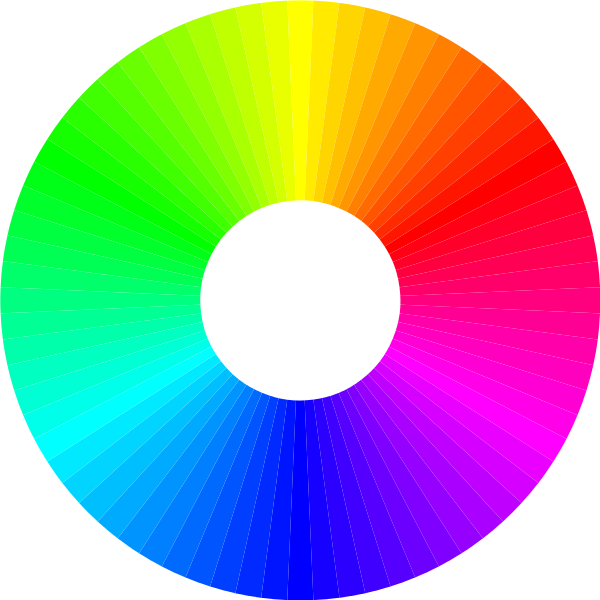
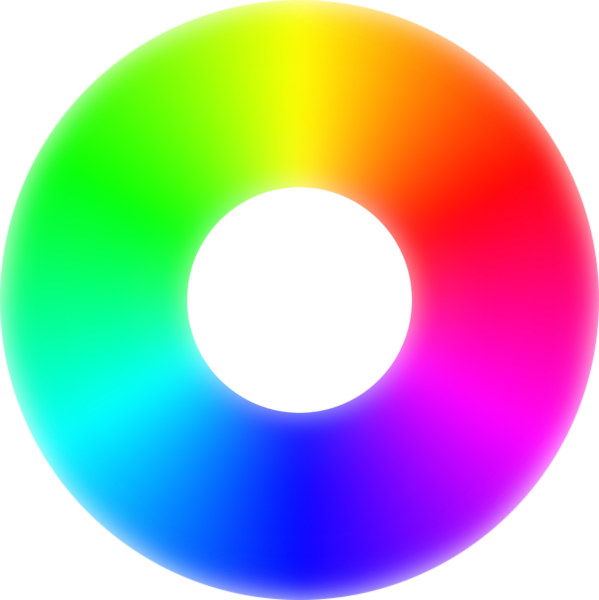
Now includes a slider bar and improved colour wheel

Changed region(s): [[0.0, 0.0, 1.0, 1.0], [0.2404, 0.27, 0.7513, 0.78]]

diff --git a/src/LightRemote.html b/src/LightRemote.html
@@ -7,16 +7,23 @@
         <link rel="stylesheet" type="text/css" href="/css/LightRemote.css">
         <link rel="stylesheet" type="text/css" href="/css/ToggleControl.css">
         <link rel="stylesheet" type="text/css" href="/css/ColorPicker.css">
+        <link rel="stylesheet" type="text/css" href="/css/ColorSlider.css">
         <script src="/js/LightRemote.js"></script>
         <script src="/js/ToggleControl.js"></script>
         <script src="/js/ColorControl.js"></script>
         <script src="/js/ColorPickerCanvas.js"></script>
+        <script src="/js/ColorSlider.js"></script>
     </head>
 
     <body>
         <div class="wrapper">
-            <div class="color-container container">
-                <canvas id="color-picker-canvas" class="" height="600px" width="600"></canvas>
+            <div class="container">
+                <div class="color-container">
+                    <canvas id="color-picker-canvas" class="" height="600px" width="600"></canvas>
+                </div>
+                <div class="brightness-container">
+                    <input type="range" min="0" max="255" value="200" class="slider" id="brightness-slider">
+                </div>
             </div>
         </div>
     </body>

diff --git a/src/public/css/ColorSlider.css b/src/public/css/ColorSlider.css
@@ -1,0 +1,24 @@
+:root {
+    --color: rgb(255, 255, 255);
+}
+
+.slider {
+    -webkit-appearance: none;
+    appearance: none;
+    height: 16px;
+    width: 75%;
+    margin: 32px 0;
+    border-radius: 16px;
+    background: linear-gradient(to right, #000000, var(--color));
+}
+
+.slider::-webkit-slider-thumb {
+    -webkit-appearance: none;
+    appearance: none;
+    width: 32px;
+    height: 32px;
+    background-image: url('../images/brightness.svg');
+    background-color: #ffffff;
+    border-radius: 50%;
+    cursor:pointer;
+}

diff --git a/src/public/js/ColorControl.js b/src/public/js/ColorControl.js
@@ -12,7 +12,7 @@ function setRGB(r, g, b) {
 }
 
 function setStyle(color) {
-
+    updateSlider(red, green, blue);
     if(color === "user-defined") {
         colorId = "custom"
     } else {
@@ -49,6 +49,7 @@ function submitColour() {
 }
 
 function makeColorRequest(color) {
+    updateSlider(red, green, blue) 
     var xhttp = new XMLHttpRequest();
     var parameters = `red=${red}&green=${green}&blue=${blue}`;
     xhttp.onreadystatechange = function() {

diff --git a/src/public/css/LightRemote.css b/src/public/css/LightRemote.css
@@ -42,12 +42,11 @@ html, body {
         margin-right: 10%;
         margin-top: 5%;
         box-sizing: border-box;
-        min-width: 600px;
+        min-width: 80%;
         min-height: 600px;
         background-color: #63586e;
         border-radius: 16px;
         display: inline-block;
-        text-align: center;
     }
 }
 

diff --git a/src/public/css/ColorControl.css b/src/public/css/ColorControl.css
@@ -3,6 +3,16 @@
     height: 35%;
 }
 
+@media only screen and (min-width: 1000px){
+
+    .color-container {
+        width: auto;
+        height: auto;
+        display: block;
+        padding: 32px;
+    }
+}
+
 .color-choice {
     width: 50px;
     height: 50px;

diff --git a/src/public/js/ColorSlider.js b/src/public/js/ColorSlider.js
@@ -1,0 +1,4 @@
+function updateSlider(red, green, blue) {
+    var root = document.documentElement;
+    root.style.setProperty('--color', `rgb(${red}, ${green}, ${blue})`)
+}
